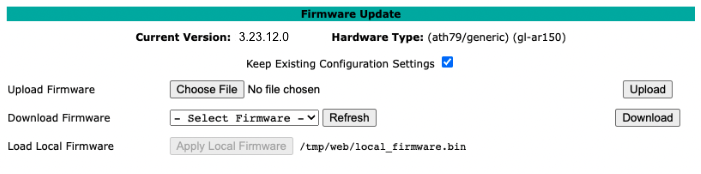
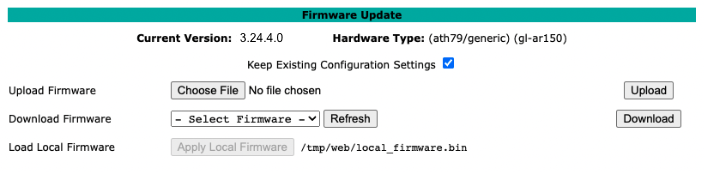
pretag 3.24.4.0 (#349)

diff --git a/conf.py b/conf.py
@@ -25,9 +25,9 @@ copyright = f'{date.today().year}, Amateur Radio Emergency Data Network, Inc. Li
 author = u'Amateur Radio Emergency Data Network, Inc.'
 
 # The short X.Y version
-version = u'latest'
+version = u'3.24.4.0'
 # The full version, including alpha/beta/rc tags
-release = u'latest'
+release = u'3.24.4.0'
 
 # -- General configuration ---------------------------------------------------
 
